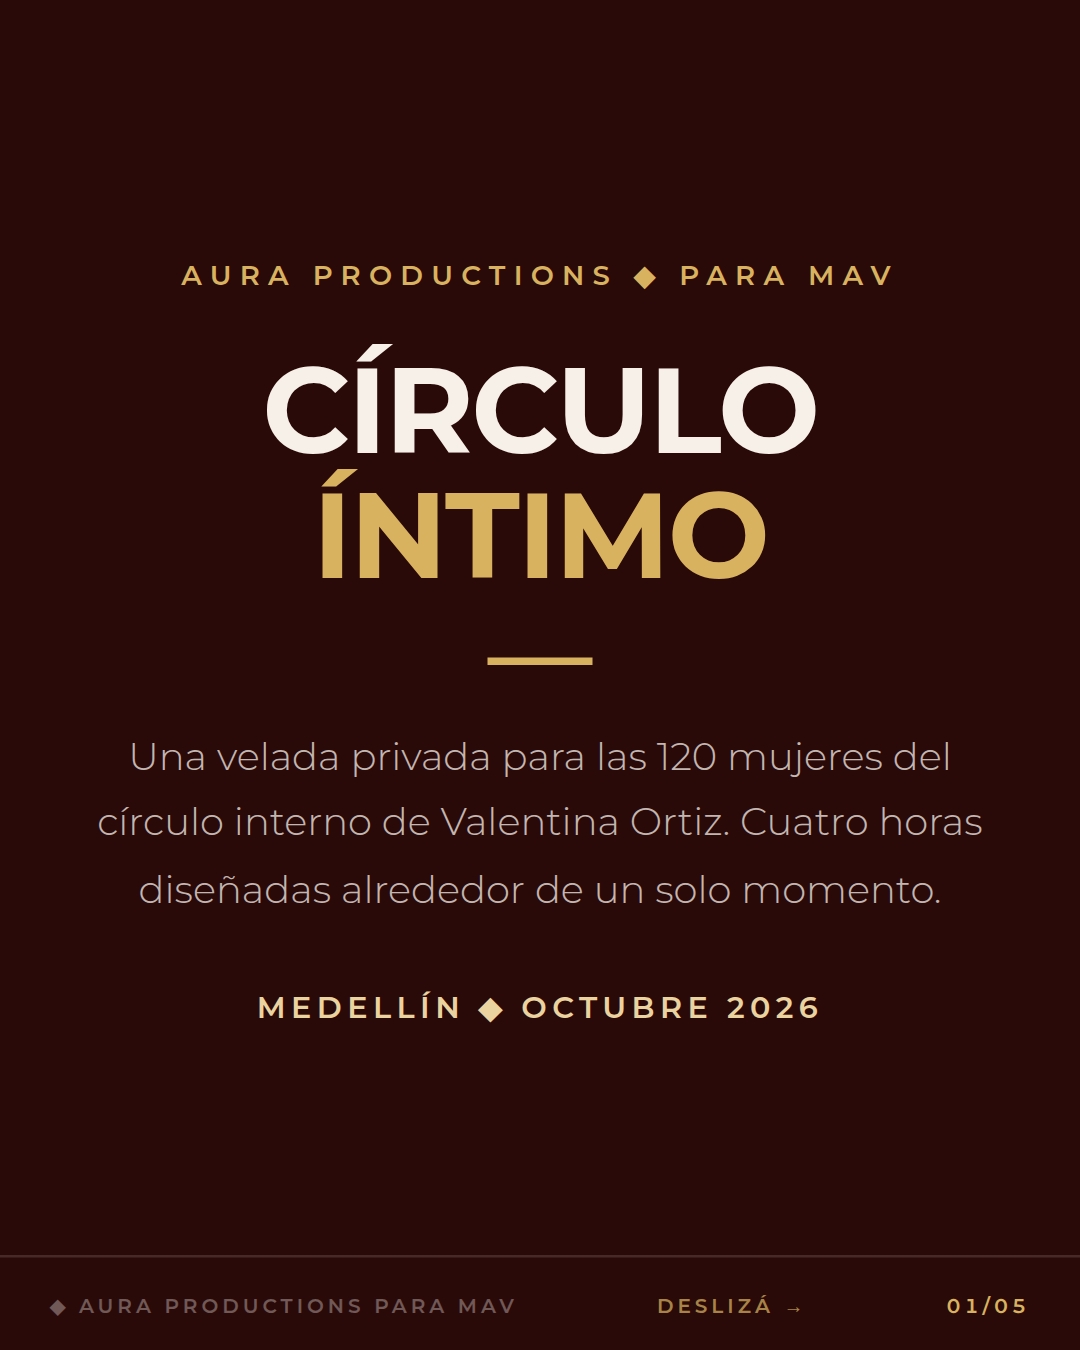
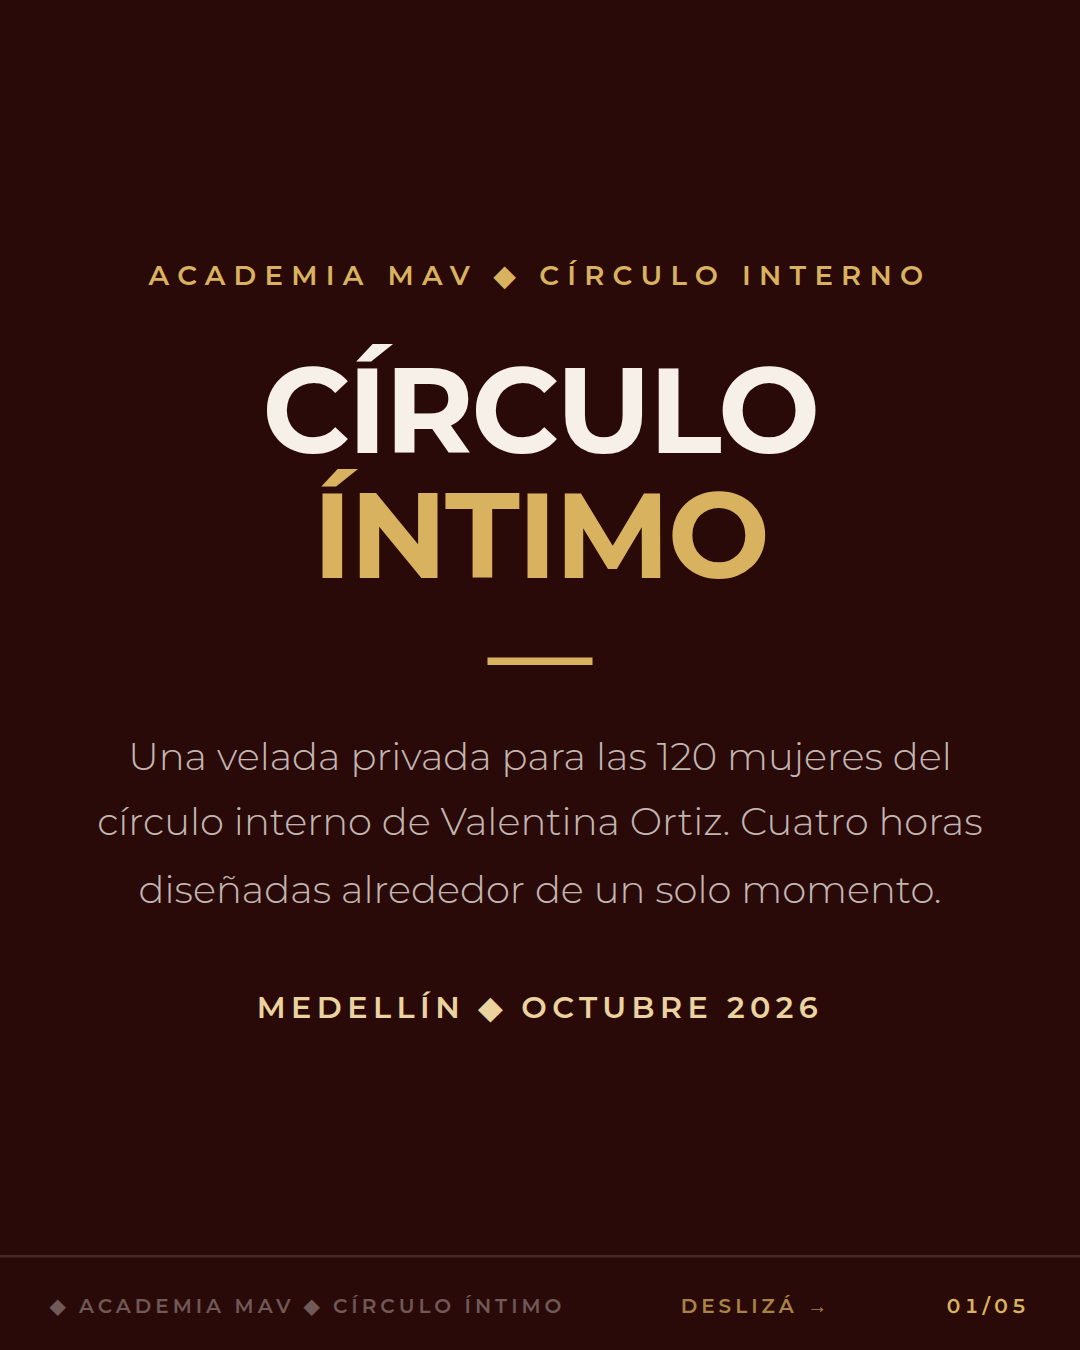
Quitar toda la marca de Aura del set público
Las 5 cards quedan con la identidad de Academia MAV sola: se reemplazan
el sello del pie, el copete de la portada y la firma de cierre. La bajada
final pasa de "No producimos eventos. Diseñamos el momento del que
después se habla" a "No es un evento. Es el momento del que después se
habla", porque sin firma de productora la primera persona del plural
quedaba sin dueño.

El set privado de 13 cards mantiene la marca y el contacto de Aura.

Claude-Session: https://claude.ai/code/session_01GYpukWA3k5ZCfL16Xb3qT1

Changed region(s): [[0.1222, 0.1867, 0.8556, 0.2178], [0.0917, 0.9644, 0.5194, 0.9956], [0.6111, 0.9644, 0.7333, 0.9956]]

diff --git a/docs/propuestas/hora-dorada-publico.html b/docs/propuestas/hora-dorada-publico.html
@@ -134,7 +134,7 @@
     <div class="track" id="track">
 
       <div class="slide ink"><div class="pad cover">
-        <p class="kick">Aura Productions ◆ para MAV</p>
+        <p class="kick">Academia MAV ◆ Círculo interno</p>
         <h1>Círculo <span>Íntimo</span></h1>
         <div class="rule"></div>
         <p class="body" style="text-align:center">Una velada privada para las 120 mujeres del círculo interno de Valentina Ortiz. Cuatro horas diseñadas alrededor de un solo momento.</p>
@@ -168,9 +168,9 @@
       <div class="slide ink"><div class="pad cover">
         <div class="rule"></div>
         <h2 style="text-align:center">Cuatro horas.<br>Ciento veinte mujeres.<br><em>Una sola luz.</em></h2>
-        <p class="body" style="text-align:center">No producimos eventos. Diseñamos el momento del que después se habla.</p>
-        <p class="sig" style="margin-top:6px">Aura Productions</p>
-        <p class="meta" style="font-size:9.5px">Experiencias que transforman vidas</p>
+        <p class="body" style="text-align:center">No es un evento. Es el momento del que después se habla.</p>
+        <p class="sig" style="margin-top:6px">Academia MAV</p>
+        <p class="meta" style="font-size:9.5px">Medellín ◆ Octubre 2026</p>
       </div></div>
 
     </div>

diff --git a/docs/propuestas/instagram-publico/README.md b/docs/propuestas/instagram-publico/README.md
@@ -21,8 +21,9 @@ Este corte es apto para feed abierto. No lleva:
 - nombres de las locaciones en negociación
 - capacidades, inclusiones y condiciones técnicas
 
-Tampoco lleva el correo de contacto de Aura: la card de cierre queda con
-la firma sola, para que el pie funcione publique quien publique.
+Tampoco lleva ninguna marca de Aura Productions: ni el correo, ni la
+firma, ni el sello del pie. El set va con la identidad de Academia MAV
+sola, para que Valentina lo publique en su propia cuenta.
 
 Tampoco lleva la fecha exacta: dice "Octubre 2026". Conviene publicar el
 día puntual recién cuando la locación esté reservada, para no anunciar
